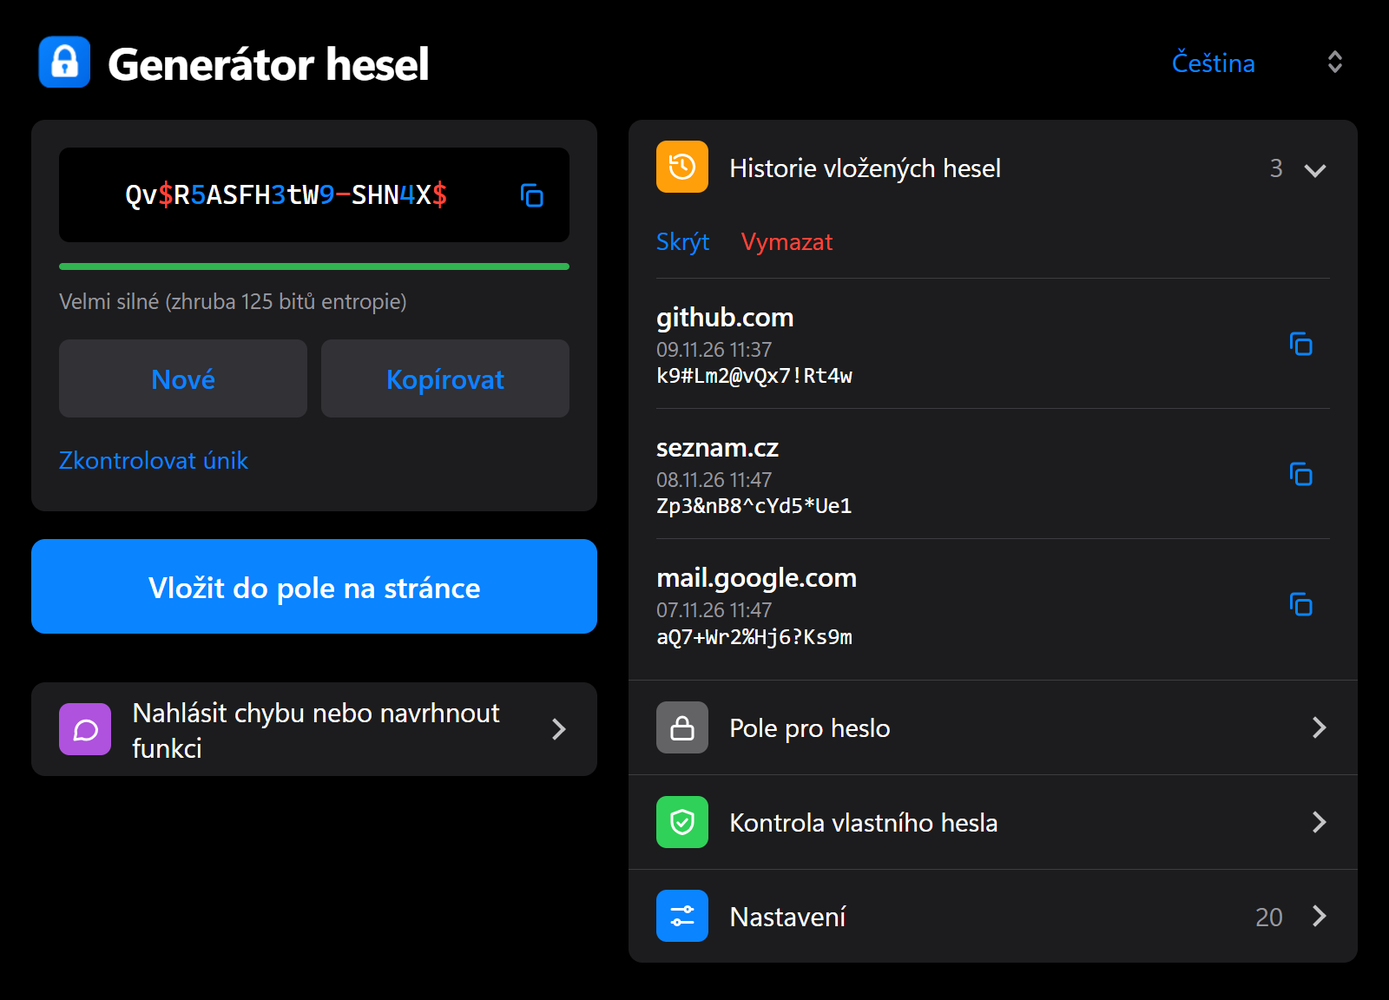
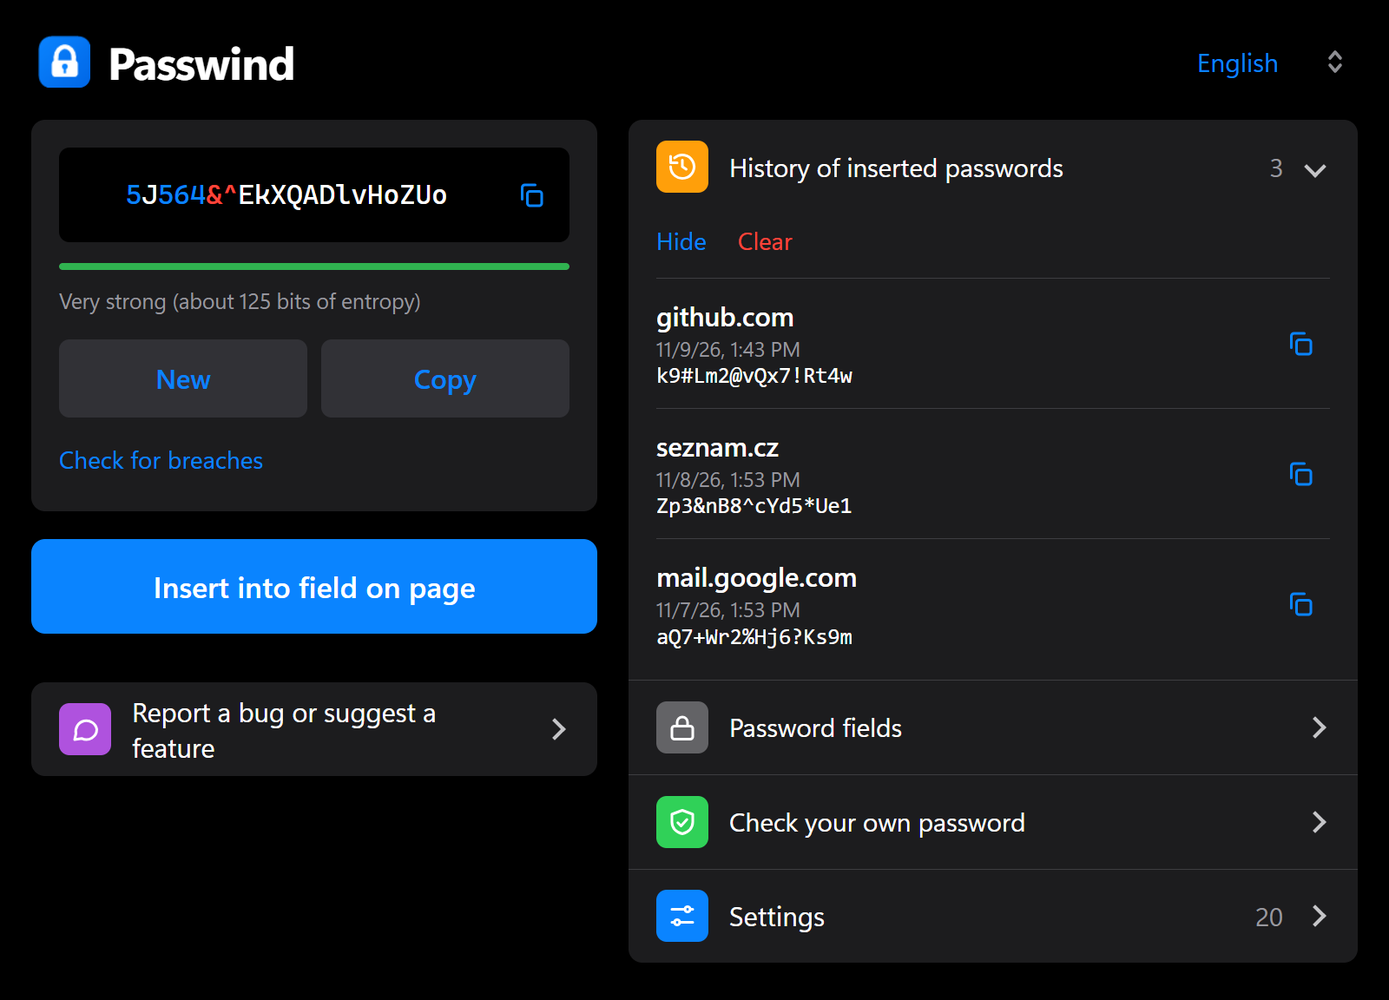
Rename to Passwind, make English the primary language
- Brand name Passwind (store name, popup title, website, README)
- Website and screenshots now English by default, Czech via the switcher
- English-first README, STORE.md and issue templates
- Repo slug changed to passwind

diff --git a/docs/index.html b/docs/index.html
@@ -1,10 +1,10 @@
 <!DOCTYPE html>
-<html lang="cs" data-lang="cs">
+<html lang="en" data-lang="en">
 <head>
   <meta charset="utf-8">
   <meta name="viewport" content="width=device-width, initial-scale=1">
-  <title>Generátor hesel - rozšíření pro Chrome / Password Generator for Chrome</title>
-  <meta name="description" content="Silná hesla jedním klikem, kontrola úniku, historie, vše lokálně v prohlížeči. / Strong passwords in one click, breach check, history, all local.">
+  <title>Passwind - Password Generator for Chrome</title>
+  <meta name="description" content="Strong passwords in one click, breach check, history, everything local in your browser. / Silná hesla jedním klikem.">
   <link rel="icon" href="img/icon128.png">
   <style>
     :root { --bg:#f2f2f7; --card:#fff; --text:#1c1c1e; --muted:#6e6e73; --sep:rgba(60,60,67,.16); --blue:#007aff; --green:#34c759; --orange:#ff9500; --purple:#af52de; }
@@ -65,7 +65,7 @@
 <body>
 <nav>
   <div class="wrap">
-    <a class="brand" href="#top"><img src="img/icon128.png" alt=""><span lang="cs">Generátor hesel</span><span lang="en">Password Generator</span></a>
+    <a class="brand" href="#top"><img src="img/icon128.png" alt="">Passwind</a>
     <div class="links">
       <a href="#funkce"><span lang="cs">Funkce</span><span lang="en">Features</span></a>
       <a href="#instalace"><span lang="cs">Instalace</span><span lang="en">Install</span></a>
@@ -87,9 +87,9 @@
     <div class="btns">
       <span class="btn disabled"><span lang="cs">Chrome Web Store (připravuje se)</span><span lang="en">Chrome Web Store (coming soon)</span></span>
       <a class="btn primary" href="#instalace"><span lang="cs">Jak nainstalovat</span><span lang="en">How to install</span></a>
-      <a class="btn ghost" href="https://github.com/sturmjan/generator-hesel">GitHub</a>
+      <a class="btn ghost" href="https://github.com/sturmjan/passwind">GitHub</a>
     </div>
-    <img class="shot" src="img/popup-main.png" alt="Popup rozšíření / extension popup">
+    <img class="shot" src="img/popup-main.png" alt="Passwind popup">
   </div>
 </header>
 
@@ -163,7 +163,7 @@
     <div class="card" style="max-width:780px;margin:0 auto">
       <h3><span lang="cs">Ruční instalace (vývojářský režim)</span><span lang="en">Manual install (developer mode)</span></h3>
       <ol class="steps">
-        <li><span lang="cs">Stáhni repozitář jako ZIP z <a href="https://github.com/sturmjan/generator-hesel/archive/refs/heads/main.zip">GitHubu</a> a rozbal ho.</span><span lang="en">Download the repository as a ZIP from <a href="https://github.com/sturmjan/generator-hesel/archive/refs/heads/main.zip">GitHub</a> and unzip it.</span></li>
+        <li><span lang="cs">Stáhni repozitář jako ZIP z <a href="https://github.com/sturmjan/passwind/archive/refs/heads/main.zip">GitHubu</a> a rozbal ho.</span><span lang="en">Download the repository as a ZIP from <a href="https://github.com/sturmjan/passwind/archive/refs/heads/main.zip">GitHub</a> and unzip it.</span></li>
         <li><span lang="cs">Otevři <code>chrome://extensions</code> a zapni <b>Režim pro vývojáře</b>.</span><span lang="en">Open <code>chrome://extensions</code> and enable <b>Developer mode</b>.</span></li>
         <li><span lang="cs">Klikni na <b>Načíst rozbalené</b> a vyber složku s <code>manifest.json</code>.</span><span lang="en">Click <b>Load unpacked</b> and choose the folder containing <code>manifest.json</code>.</span></li>
         <li><span lang="cs">Ikonu rozšíření si připni na lištu. Hotovo.</span><span lang="en">Pin the extension icon to the toolbar. Done.</span></li>
@@ -179,7 +179,7 @@
 
     <div class="policy" lang="cs">
       <h3>Zásady ochrany osobních údajů</h3>
-      <p><i>Platné od 9. 11. 2026.</i> Rozšíření „Generátor hesel“ neshromažďuje, nesleduje ani nepředává žádné osobní údaje vývojáři ani třetím stranám. Nemá žádné vlastní servery ani analytiku.</p>
+      <p><i>Platné od 9. 11. 2026.</i> Rozšíření „Passwind“ neshromažďuje, nesleduje ani nepředává žádné osobní údaje vývojáři ani třetím stranám. Nemá žádné vlastní servery ani analytiku.</p>
       <h3>Co se děje s hesly</h3>
       <ul class="plain">
         <li>Hesla se generují výhradně lokálně v prohlížeči pomocí Web Crypto.</li>
@@ -201,7 +201,7 @@
         <tr><td>Přístup k <code>http(s)://*/*</code></td><td>Rozpoznání polí pro heslo, nabídka u pole, vložení a zobrazení hesla v poli. Obsah stránek se nečte ani neodesílá.</td></tr>
       </table>
       <h3>Zdrojový kód a kontakt</h3>
-      <p>Kód je otevřený: <a href="https://github.com/sturmjan/generator-hesel">github.com/sturmjan/generator-hesel</a>. Dotazy, chyby a nápady zakládej jako <a href="https://github.com/sturmjan/generator-hesel/issues/new/choose">issue na GitHubu</a>.</p>
+      <p>Kód je otevřený: <a href="https://github.com/sturmjan/passwind">github.com/sturmjan/passwind</a>. Dotazy, chyby a nápady zakládej jako <a href="https://github.com/sturmjan/passwind/issues/new/choose">issue na GitHubu</a>.</p>
 
       <h3>Informace pro Chrome Web Store</h3>
       <div class="note"><b>Single purpose:</b> generování silných hesel a jejich vkládání do polí na stránkách. <b>Remote code:</b> ne. <b>Prodej dat:</b> ne.</div>
@@ -212,7 +212,7 @@
 
     <div class="policy" lang="en">
       <h3>Privacy policy</h3>
-      <p><i>Effective 9 November 2026.</i> The "Password Generator" extension does not collect, track or transmit any personal data to the developer or to third parties. It has no servers and no analytics.</p>
+      <p><i>Effective 9 November 2026.</i> The "Passwind" extension does not collect, track or transmit any personal data to the developer or to third parties. It has no servers and no analytics.</p>
       <h3>What happens to passwords</h3>
       <ul class="plain">
         <li>Passwords are generated entirely locally in the browser using Web Crypto.</li>
@@ -234,7 +234,7 @@
         <tr><td>Access to <code>http(s)://*/*</code></td><td>Detecting password fields, the offer next to the field, inserting and revealing the password. Page content is neither read nor sent.</td></tr>
       </table>
       <h3>Source code and contact</h3>
-      <p>The code is open: <a href="https://github.com/sturmjan/generator-hesel">github.com/sturmjan/generator-hesel</a>. Please file questions, bugs and ideas as a <a href="https://github.com/sturmjan/generator-hesel/issues/new/choose">GitHub issue</a>.</p>
+      <p>The code is open: <a href="https://github.com/sturmjan/passwind">github.com/sturmjan/passwind</a>. Please file questions, bugs and ideas as a <a href="https://github.com/sturmjan/passwind/issues/new/choose">GitHub issue</a>.</p>
 
       <h3>Chrome Web Store submission notes</h3>
       <div class="note"><b>Single purpose:</b> generating strong passwords and inserting them into page fields. <b>Remote code:</b> no. <b>Selling data:</b> no.</div>
@@ -250,9 +250,9 @@
     <h2><span lang="cs">Chyba nebo nápad?</span><span lang="en">Found a bug or have an idea?</span></h2>
     <p class="sub"><span lang="cs">Napiš to na GitHub. Stačí účet na GitHubu, zbytek je formulář. Rozšíření má odkaz přímo v okně.</span><span lang="en">Post it on GitHub. A GitHub account and a short form is all it takes. The extension links there from its window too.</span></p>
     <div class="btns">
-      <a class="btn primary" href="https://github.com/sturmjan/generator-hesel/issues/new?template=bug.yml"><span lang="cs">Nahlásit chybu</span><span lang="en">Report a bug</span></a>
-      <a class="btn ghost" href="https://github.com/sturmjan/generator-hesel/issues/new?template=feature.yml"><span lang="cs">Navrhnout funkci</span><span lang="en">Suggest a feature</span></a>
-      <a class="btn ghost" href="https://github.com/sturmjan/generator-hesel/issues"><span lang="cs">Všechna hlášení</span><span lang="en">All issues</span></a>
+      <a class="btn primary" href="https://github.com/sturmjan/passwind/issues/new?template=bug.yml"><span lang="cs">Nahlásit chybu</span><span lang="en">Report a bug</span></a>
+      <a class="btn ghost" href="https://github.com/sturmjan/passwind/issues/new?template=feature.yml"><span lang="cs">Navrhnout funkci</span><span lang="en">Suggest a feature</span></a>
+      <a class="btn ghost" href="https://github.com/sturmjan/passwind/issues"><span lang="cs">Všechna hlášení</span><span lang="en">All issues</span></a>
     </div>
   </div>
 </section>
@@ -260,14 +260,14 @@
 <footer>
   <div class="wrap">
     <span lang="cs">Open source pod licencí MIT.</span><span lang="en">Open source under the MIT license.</span>
-    · <a href="https://github.com/sturmjan/generator-hesel">GitHub</a>
+    · <a href="https://github.com/sturmjan/passwind">GitHub</a>
   </div>
 </footer>
 
 <script>
   function setLang(l) { document.documentElement.setAttribute('data-lang', l); document.documentElement.lang = l; try { localStorage.setItem('lang', l); } catch (e) {} }
   var saved = null; try { saved = localStorage.getItem('lang'); } catch (e) {}
-  setLang(saved || (/^cs|^sk/i.test(navigator.language || '') ? 'cs' : 'en'));
+  setLang(saved === 'cs' ? 'cs' : 'en');
 </script>
 </body>
 </html>

diff --git a/src/i18n.js b/src/i18n.js
@@ -16,7 +16,7 @@
     cs: {
       feedback: 'Nahlásit chybu nebo navrhnout funkci',
       back: 'Zpět',
-      appTitle: 'Generátor hesel',
+      appTitle: 'Passwind',
       regen: 'Nové',
       regenTitle: 'Nové heslo',
       copy: 'Kopírovat',
@@ -95,7 +95,7 @@
     en: {
       feedback: 'Report a bug or suggest a feature',
       back: 'Back',
-      appTitle: 'Password Generator',
+      appTitle: 'Passwind',
       regen: 'New',
       regenTitle: 'New password',
       copy: 'Copy',
@@ -174,7 +174,7 @@
     de: {
       feedback: 'Fehler melden oder Funktion vorschlagen',
       back: 'Zurück',
-      appTitle: 'Passwortgenerator',
+      appTitle: 'Passwind',
       regen: 'Neu',
       regenTitle: 'Neues Passwort',
       copy: 'Kopieren',
@@ -253,7 +253,7 @@
     es: {
       feedback: 'Informar de un error o sugerir una función',
       back: 'Atrás',
-      appTitle: 'Generador de contraseñas',
+      appTitle: 'Passwind',
       regen: 'Nueva',
       regenTitle: 'Nueva contraseña',
       copy: 'Copiar',
@@ -332,7 +332,7 @@
     pt: {
       feedback: 'Comunicar um erro ou sugerir uma funcionalidade',
       back: 'Voltar',
-      appTitle: 'Gerador de palavras-passe',
+      appTitle: 'Passwind',
       regen: 'Nova',
       regenTitle: 'Nova palavra-passe',
       copy: 'Copiar',
@@ -411,7 +411,7 @@
     fr: {
       feedback: 'Signaler un bug ou suggérer une fonction',
       back: 'Retour',
-      appTitle: 'Générateur de mots de passe',
+      appTitle: 'Passwind',
       regen: 'Nouveau',
       regenTitle: 'Nouveau mot de passe',
       copy: 'Copier',
@@ -490,7 +490,7 @@
     it: {
       feedback: 'Segnala un errore o suggerisci una funzione',
       back: 'Indietro',
-      appTitle: 'Generatore di password',
+      appTitle: 'Passwind',
       regen: 'Nuova',
       regenTitle: 'Nuova password',
       copy: 'Copia',

diff --git a/tools/demo-signup.html b/tools/demo-signup.html
@@ -1,8 +1,8 @@
 <!DOCTYPE html>
-<html lang="cs">
+<html lang="en">
 <head>
   <meta charset="utf-8">
-  <title>Ukázková registrace</title>
+  <title>Sample sign-up</title>
   <style>
     body { margin: 0; font: 15px/1.4 system-ui, sans-serif; background: #f4f5f7; color: #1d1d1f; }
     .wrap { max-width: 400px; margin: 70px auto 0; background: #fff; padding: 32px; border-radius: 10px; box-shadow: 0 2px 14px rgba(0,0,0,.08); }
@@ -15,15 +15,15 @@
 </head>
 <body>
   <form class="wrap" onsubmit="return false">
-    <h1>Vytvořit účet</h1>
-    <p>Ukázkový formulář pro testování doplňku.</p>
-    <label for="mail">E-mail</label>
+    <h1>Create account</h1>
+    <p>A sample form for testing the extension.</p>
+    <label for="mail">Email</label>
     <input id="mail" type="email" value="jan@example.com" autocomplete="off">
-    <label for="pw1">Heslo</label>
+    <label for="pw1">Password</label>
     <input id="pw1" type="password" autocomplete="off">
-    <label for="pw2">Heslo znovu</label>
+    <label for="pw2">Confirm password</label>
     <input id="pw2" type="password" autocomplete="off">
-    <button>Registrovat</button>
+    <button>Sign up</button>
   </form>
 </body>
 </html>

diff --git a/popup/popup.html b/popup/popup.html
@@ -2,7 +2,7 @@
 <html lang="cs">
 <head>
   <meta charset="utf-8">
-  <title>Password Generator</title>
+  <title>Passwind</title>
   <link rel="stylesheet" href="popup.css">
 </head>
 <body>
@@ -38,7 +38,7 @@
       <button id="insert" type="button" class="primary" data-i18n="insert"></button>
       <div id="status" class="status"></div>
 
-      <a id="feedback" class="card navrow feedback" href="https://github.com/sturmjan/generator-hesel/issues/new/choose" target="_blank" rel="noopener">
+      <a id="feedback" class="card navrow feedback" href="https://github.com/sturmjan/passwind/issues/new/choose" target="_blank" rel="noopener">
         <span class="ico"><svg viewBox="0 0 24 24"><path d="M21 12a8 8 0 0 1-11.6 7.1L4 20l1-4.6A8 8 0 1 1 21 12z"/></svg></span>
         <span class="st" data-i18n="feedback"></span>
       </a>

diff --git a/STORE.md b/STORE.md
@@ -1,49 +1,47 @@
-# Podklady pro Chrome Web Store
+# Chrome Web Store listing notes
 
-## Název
-Generátor hesel (lokalizováno: cs, en, de, es, pt_PT, fr, it přes `_locales/`)
+Primary listing language: **English**. Localized name/description live in `_locales/` (en, cs, de, es, pt_PT, fr, it). The UI language follows the browser and can be changed in the popup.
 
-## Krátký popis (max 132 znaků)
-Silná hesla jedním klikem. Rozpozná pole pro heslo, vloží heslo i do potvrzení, zkontroluje únik a zkopíruje ho do schránky.
+## Name
+Passwind - Password Generator
 
-## Dlouhý popis
-Jednoduchý generátor silných hesel přímo v prohlížeči.
+## Short description (max 132 chars)
+Strong passwords in one click. Detects password fields, fills the confirmation, checks for breaches and copies to the clipboard.
 
-- Kliknutím na ikonu vygenerujete heslo s nastavitelnou délkou a sadou znaků (velká/malá písmena, čísla, speciální znaky, vlastní povolené znaky, vynechání podobných znaků).
-- Výchozí nastavení je silné (20 znaků, všechny skupiny znaků).
-- U polí pro heslo na stránce se zobrazí malá ikona. U registračních formulářů se nabídka otevře automaticky.
-- Jedním kliknutím se heslo vloží do pole, do pole pro potvrzení hesla (jde vypnout) a zkopíruje do schránky.
-- Funguje i přes pravé tlačítko myši: "Vygenerovat heslo a vložit".
-- Kontrola úniku přes Have I Been Pwned (k-anonymity): odesílá se jen prvních 5 znaků SHA-1 otisku, heslo prohlížeč neopustí. Jde zkontrolovat vygenerované i vlastní heslo.
-- Zobrazení hesla v poli na stránce: při najetí myší, dvojklikem, po kliknutí do pole nebo při držení Ctrl (nebo vypnuto).
-- Automatické vymazání schránky po 30 s / 1 min / 2 min.
-- Historie vložených hesel: do zavření prohlížeče (výchozí), trvale, nebo vůbec.
-- Světlý i tmavý vzhled podle systému. Jazyky: čeština, angličtina, němčina, španělština, portugalština, francouzština, italština.
-- Hesla se generují lokálně kryptograficky bezpečným generátorem (Web Crypto).
+## Detailed description
+Generate strong passwords right in your browser, with no accounts and no servers.
 
-## Zdůvodnění oprávnění (do formuláře "Privacy practices")
-- `storage`: uložení nastavení generátoru a historie vložených hesel (podle volby uživatele jen v paměti prohlížeče, nebo místně).
-- `clipboardWrite`: kopírování vygenerovaného hesla do schránky a její pozdější vymazání.
-- `contextMenus`: položka "Vygenerovat heslo a vložit" v kontextové nabídce.
-- `alarms`: časovač pro automatické vymazání schránky.
-- `offscreen`: vymazání schránky (service worker k ní nemá přístup).
-- Content script na `http(s)://*/*`: rozpoznání polí pro heslo, vložení hesla a jeho zobrazení v poli. Stránky se nečtou ani neodesílají.
-- Síťový dotaz na `https://api.pwnedpasswords.com/range/<5 znaků>` jen po kliknutí uživatele na "Zkontrolovat únik".
+- Click the icon to generate a password: 8-64 characters, upper/lower case, digits, symbols, your own allowed characters, look-alike exclusion.
+- A small icon appears in password fields. On sign-up forms the offer opens automatically, and one click fills the field and the confirmation field.
+- Show the password in the field on hover, double click, focus or while holding Ctrl, with a copy icon right in the field.
+- Breach check via Have I Been Pwned (k-anonymity): only the first 5 characters of the SHA-1 hash are sent, the password never leaves your browser.
+- Optional history of inserted passwords (until the browser closes, permanent, or off) so a failed sign-up never loses a password.
+- Automatic clipboard clearing after 30 s, 1 or 2 minutes.
+- Also in the right-click menu: "Generate password and insert".
+- English, Czech, German, Spanish, Portuguese, French and Italian. Light and dark mode.
+- Open source (MIT): https://github.com/sturmjan/passwind
 
-Single purpose: generování a vkládání hesel.
-Data usage: žádná data se neshromažďují. Remote code: ne.
+## Category
+Productivity
 
-## Zásady ochrany osobních údajů
-Rozšíření Generátor hesel neshromažďuje ani nepředává žádné osobní údaje vývojáři.
-Hesla se generují výhradně lokálně v prohlížeči.
-Uložena jsou nastavení generátoru (synchronizované úložiště prohlížeče) a volitelně historie vložených hesel (výchozí: jen v paměti do zavření prohlížeče, na přání trvale v místním úložišti, nebo vůbec).
-Při ručním spuštění kontroly úniku se na službu Have I Been Pwned odešle pouze prvních 5 znaků SHA-1 otisku hesla; samotné heslo ani celý otisk se neodesílá.
-Rozšíření nečte obsah stránek kromě zjištění, zda na stránce existuje pole pro heslo.
+## Privacy practices form
+- Single purpose: generating strong passwords and inserting them into fields on web pages.
+- Data usage: tick "Authentication information" (passwords are handled locally). Nothing is sold or transferred, nothing is used for purposes unrelated to the core function or for creditworthiness.
+- Remote code: no.
+- Privacy policy URL: https://sturmjan.github.io/passwind/#soukromi (GitHub Pages must be enabled; the page shows English by default).
 
-## Grafika (zbývá vytvořit)
-- Ikona 128x128: `icons/icon128.png` (hotovo, modrá)
-- Screenshoty 1280x800: min. 1 (popup + nabídka u pole pro heslo)
-- Malá promo dlaždice 440x280 (volitelné, doporučeno)
+## Permission justifications
+- `storage`: settings and the optional history of inserted passwords.
+- `clipboardWrite`: copy the password and wipe it from the clipboard later.
+- `contextMenus`: "Generate password and insert" in the right-click menu.
+- `alarms`, `offscreen`: timer and hidden document for the automatic clipboard wipe (service workers cannot access the clipboard).
+- Content script on `http(s)://*/*`: detect password fields, show the offer, insert and reveal the password. Page content is neither read nor sent anywhere.
+- Network: `https://api.pwnedpasswords.com/range/<5 hash chars>` only when the user clicks "Check for breaches".
 
-## Balíček
-ZIP obsahující `manifest.json`, `_locales/`, `src/`, `popup/`, `icons/` (bez `tools/`, `STORE.md`).
+## Graphics (still to do)
+- Icon 128x128: `icons/icon128.png` (done)
+- Screenshots 1280x800 (1-5): popup, in-page offer, filled fields (raw shots in `docs/img/`)
+- Small promo tile 440x280 (optional)
+
+## Package
+ZIP containing `manifest.json`, `_locales/`, `src/`, `popup/`, `icons/` only (no `tools/`, `docs/`, `.github/`, `*.md`).

diff --git a/README.md b/README.md
@@ -1,45 +1,51 @@
-# Generátor hesel / Password Generator
+# Passwind - Password Generator for Chrome
 
-Rozšíření pro Chrome: silná hesla jedním klikem, nabídka přímo u pole pro heslo, kontrola úniku, historie vložených hesel a mazání schránky. Všechno běží lokálně v prohlížeči.
+Strong passwords in one click, an offer right at the password field, breach check, history of inserted passwords and automatic clipboard clearing. Everything runs locally in your browser.
 
-*A Chrome extension: strong passwords in one click, an offer right at the password field, breach check, history of inserted passwords and clipboard clearing. Everything runs locally in the browser.*
-
-**Prezentace a zásady ochrany osobních údajů / Website and privacy policy:** `docs/index.html` (GitHub Pages: https://sturmjan.github.io/generator-hesel/)
+**Website and privacy policy:** https://sturmjan.github.io/passwind/ (source in `docs/index.html`)
 
 ![Popup](docs/img/popup-main.png)
 
-## Funkce / Features
+## Features
 
-- Délka 8-64 znaků, velká/malá písmena, čísla, speciální znaky, vlastní znaky, vynechání podobných znaků
-- Nabídka u polí pro heslo (u registrace automaticky), vloží i potvrzení hesla
-- Zobrazení hesla v poli (najetí myší, dvojklik, focus, Ctrl) a ikona kopírování přímo v poli
-- Kontrola úniku přes Have I Been Pwned (k-anonymity, odesílá se jen 5 znaků otisku)
-- Historie vložených hesel (do zavření prohlížeče / trvale / vypnuto)
-- Automatické mazání schránky (30 s / 1 min / 2 min)
-- 7 jazyků (cs, en, de, es, pt, fr, it), světlý a tmavý režim
+- 8-64 characters, upper/lower case, digits, symbols, custom allowed characters, look-alike exclusion (I l 1 O 0)
+- Offer at password fields (automatic on sign-up forms), fills the confirmation field too, right-click menu entry
+- Show the password in the field (hover, double click, focus or Ctrl) with a copy icon right in the field
+- Breach check via Have I Been Pwned (k-anonymity: only 5 hash characters are sent)
+- History of inserted passwords (until the browser closes / permanent / off)
+- Automatic clipboard clearing (30 s / 1 min / 2 min)
+- 7 languages (en, cs, de, es, pt, fr, it), light and dark mode
 
-## Instalace / Install
+## Install
 
-1. Stáhněte repozitář a rozbalte ho. / Download and unzip the repository.
-2. `chrome://extensions` -> zapnout **Režim pro vývojáře** / **Developer mode**.
-3. **Načíst rozbalené** / **Load unpacked** -> vyberte složku s `manifest.json`.
+Chrome Web Store: coming soon. Until then:
 
-## Chyby a nápady / Bugs and ideas
+1. Download this repository (Code -> Download ZIP) and unzip it.
+2. Open `chrome://extensions` and enable **Developer mode**.
+3. Click **Load unpacked** and choose the folder that contains `manifest.json`.
 
-Založte [issue](https://github.com/sturmjan/generator-hesel/issues/new/choose). Prosím **nikdy nevkládejte skutečná hesla**. / Please **never paste real passwords**.
+## Bugs and ideas
 
-## Struktura / Structure
+Open an [issue](https://github.com/sturmjan/passwind/issues/new/choose) (English or Czech). Please **never paste real passwords**.
 
-| Cesta | Obsah |
+## Project layout
+
+| Path | Contents |
 | --- | --- |
 | `manifest.json` | Manifest V3 |
-| `src/` | `content.js` (pole na stránkách), `background.js` (menu, schránka), `generator.js`, `i18n.js`, `hibp.js`, `offscreen.*` |
-| `popup/` | okno rozšíření |
-| `_locales/` | název a popis pro obchod |
-| `tools/` | skript na ikony, ukázková stránka `demo-signup.html` |
-| `docs/` | prezentační stránka + screenshoty |
-| `STORE.md` | podklady pro Chrome Web Store |
+| `src/` | `content.js` (page fields), `background.js` (menu, clipboard timer), `generator.js`, `i18n.js`, `hibp.js`, `offscreen.*` |
+| `popup/` | extension popup |
+| `_locales/` | store name and description |
+| `tools/` | icon script, `demo-signup.html` test page |
+| `docs/` | website + screenshots (GitHub Pages) |
+| `STORE.md` | Chrome Web Store listing notes |
 
-## Licence
+## License
 
-MIT, viz `LICENSE`.
+MIT, see `LICENSE`.
+
+---
+
+## Česky
+
+Rozšíření pro Chrome: silná hesla jedním klikem, nabídka u pole pro heslo, kontrola úniku, historie vložených hesel a mazání schránky. Vše běží lokálně v prohlížeči. Chyby a nápady zakládejte jako issue na GitHubu (česky i anglicky). Ruční instalace: `chrome://extensions` -> Režim pro vývojáře -> Načíst rozbalené.
